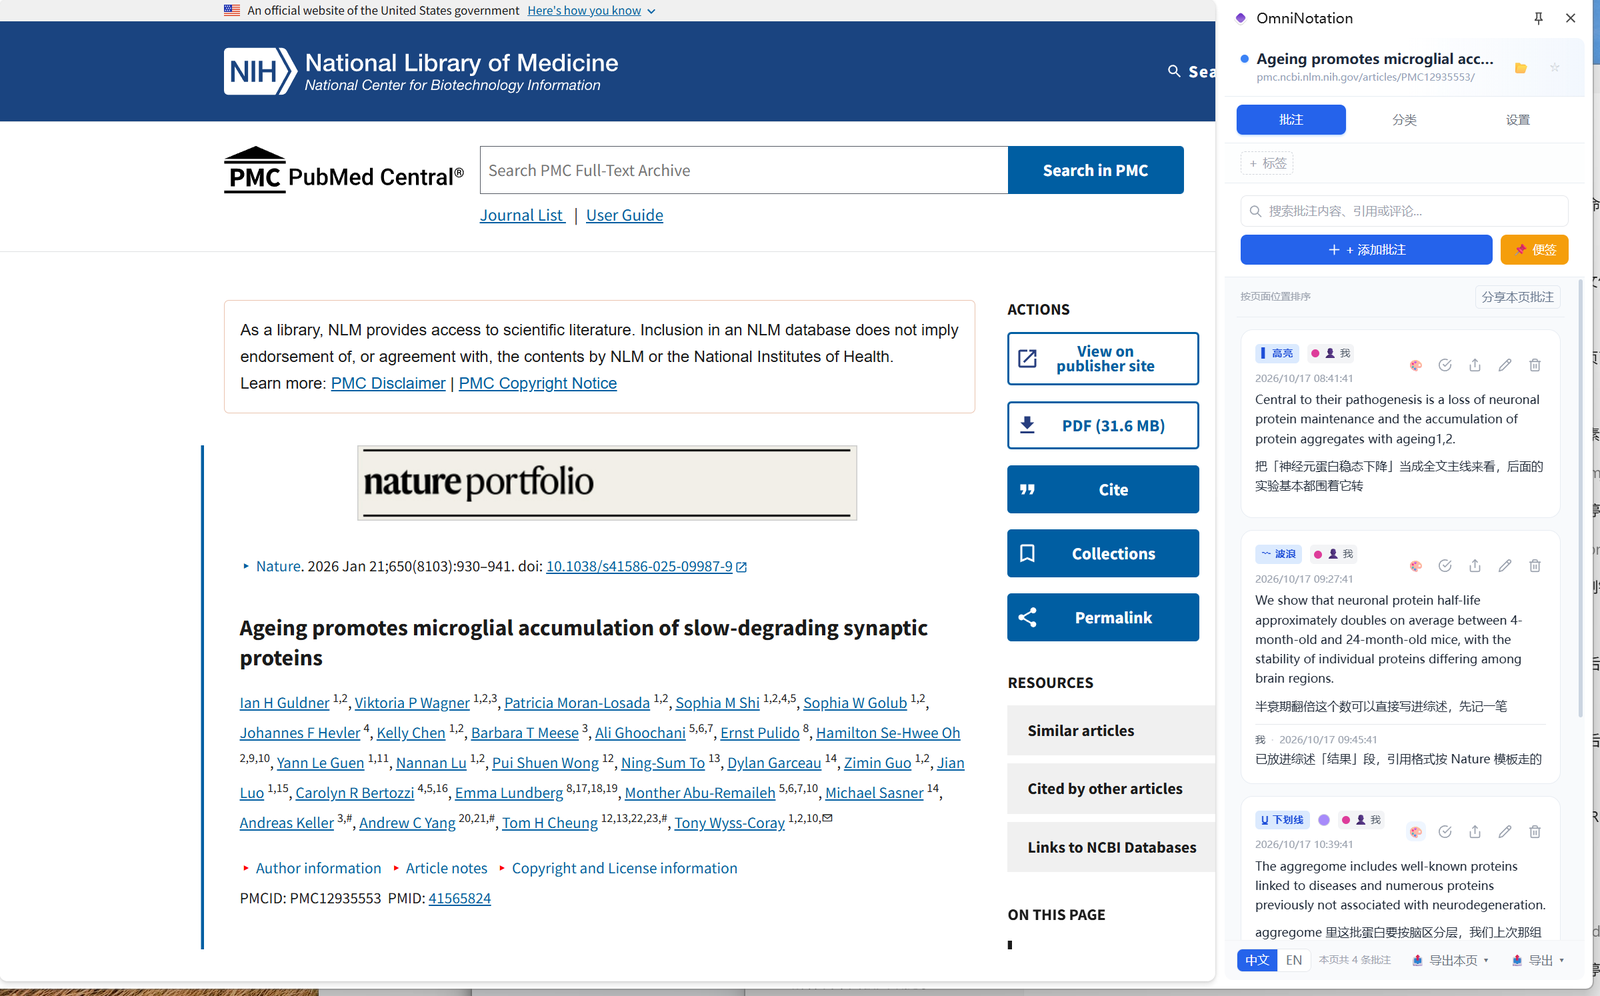
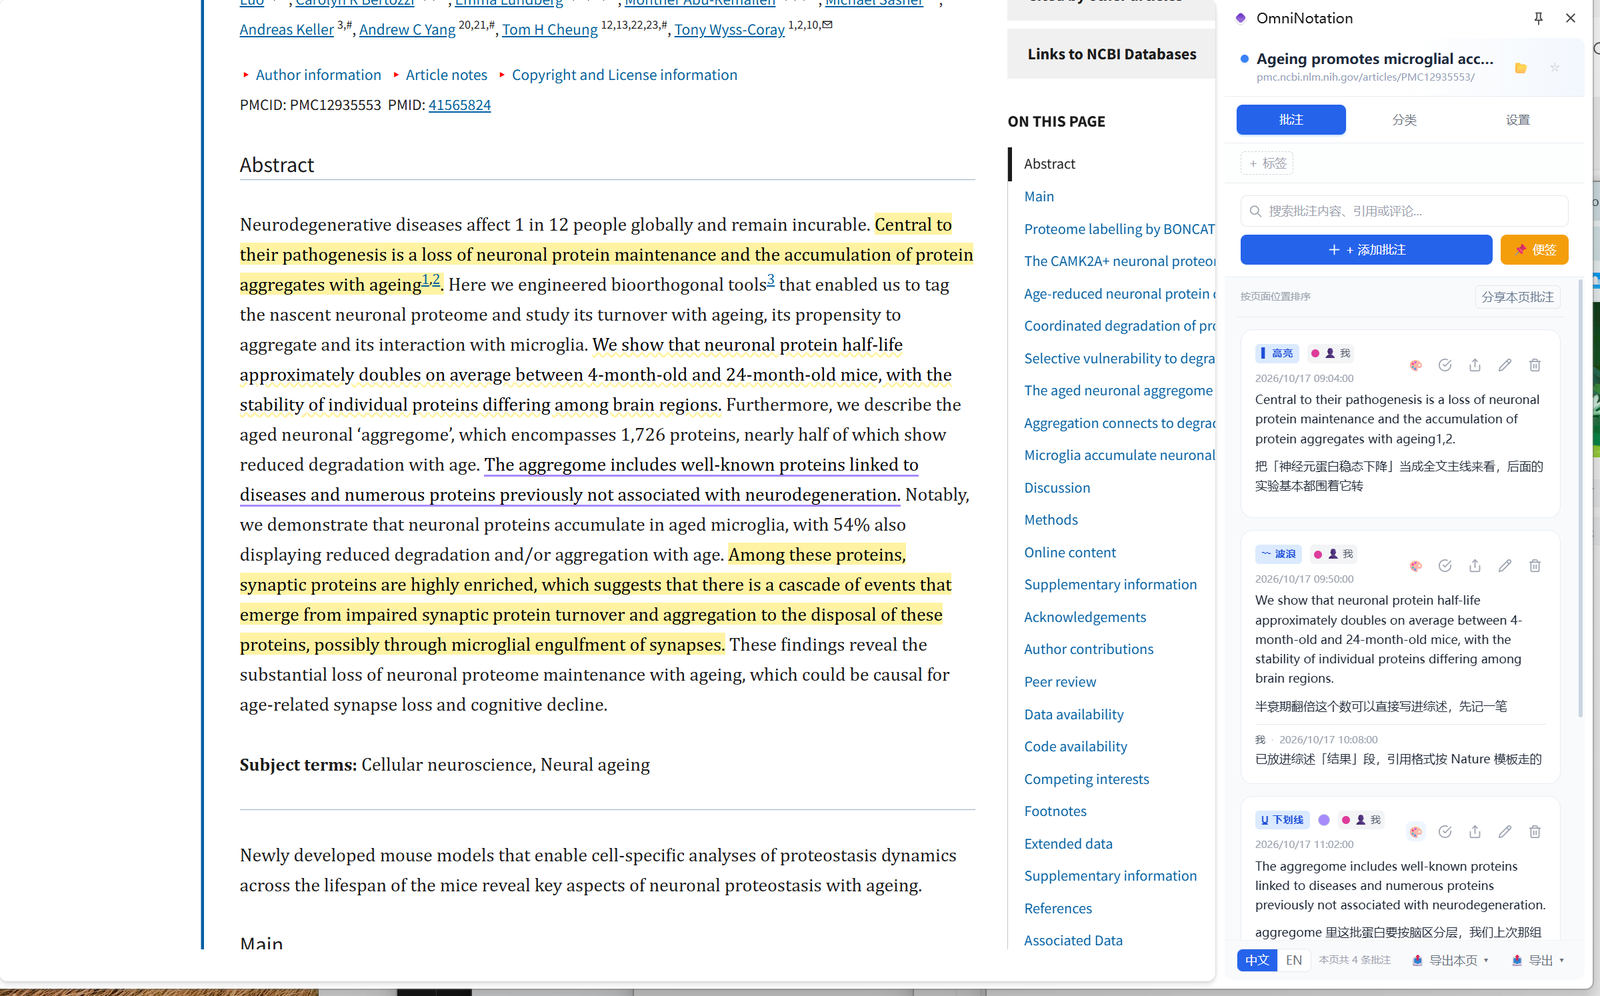
docs: 截图区重排——高亮图升为主视觉，补划词搜索，弱化 Copy Link Name
- README 两版的「截图 / Screenshots」改成通栏主图（页面高亮 + 侧边栏批注）
  + 两列副图（划词工具栏 / 收藏夹面板），Copy Link Name 的截图移出截图区
- 新增划词搜索截图 screenshot-selection-toolbar-{zh,en}.png：真实鼠标拖选
  摘要里一段未批注文字，触发浮动工具栏（标注 / 复制 / 8 个搜索引擎）
- Copy Link Name 降级为使用说明里 width=420 的小图，亮点列表里那条链接也删掉，
  功能本身仍在功能表与「右键菜单」小节完整保留

diff --git a/README.md b/README.md
@@ -36,7 +36,6 @@ Key highlights:
 - 🔄 **Bidirectional Navigation** — Click a highlight to open the side panel & jump to its annotation; click an annotation card to scroll to its highlight
 - 🎨 **4 Highlight Styles + Per-Annotation Color** — Highlight, underline, strikethrough, squiggly underline; each annotation can have its own color
 - 🌙 **Dark Mode Aware** — Highlight colors automatically deepen when the system prefers dark mode
-- 🔗 **Right-click Menu on Links** — Copy a link's display text with one click, straight from the browser's native context menu
 - 📁 **Nested Bookmark Folders** — Multi-level folder organization for your annotated pages
 - 🔖 **Auto-Bookmark** — Pages with annotations are automatically bookmarked
 - 🏷 **Page-Level Tags & Visibility** — Tag and control access per page, not per annotation
@@ -46,20 +45,19 @@ Key highlights:
 
 ## Screenshots
 
+<p align="center">
+  <img src="docs/screenshot-annotations-en.png" alt="Highlights on the page with the annotation list in the Side Panel">
+</p>
+<p align="center"><sub><b>Highlights on the page</b> — selections stay anchored across reloads, and every mark has its own note, color and reply thread in the Side Panel</sub></p>
+
 <table>
   <tr>
-    <td width="62%" align="center"><img src="docs/screenshot-annotations-en.png" alt="Annotations in the side panel"></td>
-    <td width="38%" align="center"><img src="docs/screenshot-bookmarks-en.png" alt="Bookmark dashboard"></td>
+    <td width="58%" align="center"><img src="docs/screenshot-selection-toolbar-en.png" alt="Selection toolbar with multi-engine search"></td>
+    <td width="42%" align="center"><img src="docs/screenshot-bookmarks-en.png" alt="Bookmark dashboard"></td>
   </tr>
   <tr>
-    <td align="center"><sub>Highlights on the page + annotations in the Side Panel</sub></td>
-    <td align="center"><sub>Bookmark dashboard with folders, tags and categories</sub></td>
-  </tr>
-  <tr>
-    <td colspan="2" align="center">
-      <img src="docs/screenshot-context-menu-en.png" alt="Right-click menu with Copy Link Name">
-      <br><sub>Right-click a link → <b>OmniNotation ▸ Copy Link Name</b> copies the link's display text</sub>
-    </td>
+    <td align="center"><sub>Select text → annotate, copy, or search the selection across search engines</sub></td>
+    <td align="center"><sub>Bookmark dashboard: folders, tags, page categories</sub></td>
   </tr>
 </table>
 
@@ -157,6 +155,11 @@ OmniNotation adds its items to the browser's **own** context menu, so everything
 - **Mark styles** — Right-click selected text to save it with a mark style (▌ / U̲ / S̶ / 〰).
 - **Links inside an annotation** — Right-click a link that is part of an annotated highlight and two more items appear: **Copy text** and **Delete annotation**.
 - **Highlights and sticky notes** — Right-click a mark or sticky note that is not a link to open the in-page menu with **Copy text** / **Delete annotation**.
+
+<p align="center">
+  <img src="docs/screenshot-context-menu-en.png" width="420" alt="Right-click menu with Copy Link Name">
+  <br><sub>OmniNotation ▸ Copy Link Name</sub>
+</p>
 
 ### Selection Toolbar
 
